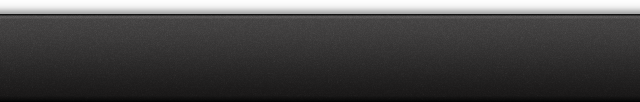
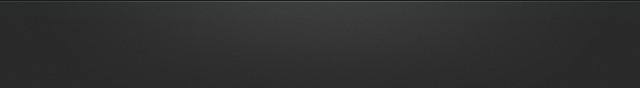
ui changes to root view

Changed region(s): [[0.0, 0.0, 1.0, 0.1364], [0.0, 0.1591, 1.0, 0.3409], [0.0, 0.9318, 1.0, 1.0]]

diff --git a/MealTime/RootViewController.m b/MealTime/RootViewController.m
@@ -63,7 +63,7 @@
   RELEASE_SAFELY(_currentAddress);
   RELEASE_SAFELY(_headerView);
   RELEASE_SAFELY(_toolbar);
-  RELEASE_SAFELY(_headerLabel);
+  RELEASE_SAFELY(_statusLabel);
   RELEASE_SAFELY(_whatField);
   RELEASE_SAFELY(_whereField);
   RELEASE_SAFELY(_whatTermController);
@@ -83,7 +83,7 @@
   
   RELEASE_SAFELY(_headerView);
   RELEASE_SAFELY(_toolbar);
-  RELEASE_SAFELY(_headerLabel);
+  RELEASE_SAFELY(_statusLabel);
   RELEASE_SAFELY(_whatField);
   RELEASE_SAFELY(_whereField);
   RELEASE_SAFELY(_whatTermController);
@@ -178,7 +178,7 @@
   [self setupHeader];
   
   // Setup Toolbar
-//  [self setupToolbar];
+  [self setupToolbar];
   
   // Search Term Controller
   [self setupSearchTermController];
@@ -188,14 +188,14 @@
 }
 
 - (void)setupHeader {
-  _headerView = [[UIView alloc] initWithFrame:CGRectMake(0, 0, self.view.width, 60.0)];
-  UIImageView *bg = [[[UIImageView alloc] initWithImage:[[UIImage imageNamed:@"bg_searchbar.png"] stretchableImageWithLeftCapWidth:0 topCapHeight:0]] autorelease];
+  _headerView = [[UIView alloc] initWithFrame:CGRectMake(0, 0, self.view.width, 44.0)];
+  UIImageView *bg = [[[UIImageView alloc] initWithImage:[[UIImage imageNamed:@"bg_navbar.png"] stretchableImageWithLeftCapWidth:0 topCapHeight:1]] autorelease];
   bg.autoresizingMask = ~UIViewAutoresizingNone;
   bg.frame = _headerView.bounds;
   [_headerView addSubview:bg];
   
   // Search Bar
-  CGFloat searchWidth = _headerView.width - 20 - 50;
+  CGFloat searchWidth = _headerView.width - 20;
   
   _whatField = [[UITextField alloc] initWithFrame:CGRectMake(10, 7, searchWidth, 30)];
   _whatField.contentVerticalAlignment = UIControlContentVerticalAlignmentCenter;
@@ -205,6 +205,13 @@
   _whatField.returnKeyType = UIReturnKeySearch;
   _whatField.leftViewMode = UITextFieldViewModeAlways;
   _whatField.leftView = [[[UIImageView alloc] initWithImage:[UIImage imageNamed:@"icon_searchfield.png"]] autorelease];
+  _whatField.rightViewMode = UITextFieldViewModeUnlessEditing;
+  
+  UIButton *starButton = [UIButton buttonWithType:UIButtonTypeCustom];
+  [starButton setImage:[UIImage imageNamed:@"icon_star_silver.png"] forState:UIControlStateNormal];
+  starButton.frame = CGRectMake(0, 0, 15, 15);
+  
+  _whatField.rightView = starButton;
   _whatField.borderStyle = UITextBorderStyleRoundedRect;
   _whatField.placeholder = @"What? (e.g. Pizza, Subway)";
   [_whatField addTarget:self action:@selector(searchTermChanged:) forControlEvents:UIControlEventEditingChanged];
@@ -218,47 +225,21 @@
   _whereField.leftViewMode = UITextFieldViewModeAlways;
   _whereField.leftView = [[[UIImageView alloc] initWithImage:[UIImage imageNamed:@"icon_place.png"]] autorelease];
   
-  UILabel *rightView = [[[UILabel alloc] initWithFrame:CGRectMake(0, 0, 40, 15)] autorelease];
-  rightView.font = [PSStyleSheet fontForStyle:@"whereRightView"];
-  rightView.textColor = [PSStyleSheet textColorForStyle:@"whereRightView"];
-  rightView.shadowColor = [PSStyleSheet shadowColorForStyle:@"whereRightView"];
-  rightView.shadowOffset = [PSStyleSheet shadowOffsetForStyle:@"whereRightView"];
-  rightView.text = [NSString stringWithFormat:@"%.1f mi", _distance];
-  rightView.textAlignment = UITextAlignmentRight;
+  UIButton *distanceButton = [UIButton buttonWithType:UIButtonTypeCustom];
+  distanceButton.frame = CGRectMake(0, 0, 40, 15);
+  [distanceButton setTitle:[NSString stringWithFormat:@"%.1f mi", _distance] forState:UIControlStateNormal];
+  [distanceButton setContentHorizontalAlignment:UIControlContentHorizontalAlignmentRight];
+  [distanceButton.titleLabel setFont:[PSStyleSheet fontForStyle:@"whereRightView"]];
+  [distanceButton setTitleColor:[PSStyleSheet textColorForStyle:@"whereRightView"] forState:UIControlStateNormal];
+  [distanceButton.titleLabel setShadowColor:[PSStyleSheet shadowColorForStyle:@"whereRightView"]];
+  [distanceButton.titleLabel setShadowOffset:[PSStyleSheet shadowOffsetForStyle:@"whereRightView"]];
+  [distanceButton addTarget:self action:@selector(distance) forControlEvents:UIControlEventTouchUpInside];
+  
   _whereField.rightViewMode = UITextFieldViewModeUnlessEditing;
-  _whereField.rightView = rightView;
+  _whereField.rightView = distanceButton;
   _whereField.borderStyle = UITextBorderStyleRoundedRect;
   _whereField.placeholder = @"Where? (Current Location)";
   [_whereField addTarget:self action:@selector(searchTermChanged:) forControlEvents:UIControlEventEditingChanged];
-  
-  // Header Label
-  _headerLabel = [[UILabel alloc] initWithFrame:CGRectMake(10, 40, _headerView.width - 20, 16)];
-  _headerLabel.backgroundColor = [UIColor clearColor];
-  _headerLabel.textAlignment = UITextAlignmentCenter;
-  _headerLabel.font = [PSStyleSheet fontForStyle:@"headerLabel"];
-  _headerLabel.textColor = [PSStyleSheet textColorForStyle:@"headerLabel"];
-  _headerLabel.shadowColor = [PSStyleSheet shadowColorForStyle:@"headerLabel"];
-  _headerLabel.shadowOffset = [PSStyleSheet shadowOffsetForStyle:@"headerLabel"];
-  _headerLabel.text = @"Searching for places...";
-  
-  // Buttons
-  _headerTopButton = [UIButton buttonWithType:UIButtonTypeCustom];
-  _headerTopButton.frame = CGRectMake(_headerView.width - 50, 7, 40, 30);
-  [_headerTopButton setImage:[UIImage imageNamed:@"icon_star_gold.png"] forState:UIControlStateNormal];
-  [_headerTopButton setBackgroundImage:[[UIImage imageNamed:@"navbar_normal_button.png"] stretchableImageWithLeftCapWidth:4 topCapHeight:0] forState:UIControlStateNormal];
-  [_headerTopButton setBackgroundImage:[[UIImage imageNamed:@"navbar_normal_highlighted_button.png"] stretchableImageWithLeftCapWidth:4 topCapHeight:0] forState:UIControlStateHighlighted];
-  [_headerTopButton addTarget:self action:@selector(saved) forControlEvents:UIControlEventTouchUpInside];
-  
-  _headerDistanceButton = [UIButton buttonWithType:UIButtonTypeCustom];
-  _headerDistanceButton.frame = CGRectMake(_headerView.width - 50, 7, 40, 30);
-  [_headerDistanceButton setImage:[UIImage imageNamed:@"icon_distance.png"] forState:UIControlStateNormal];
-  [_headerDistanceButton setBackgroundImage:[[UIImage imageNamed:@"navbar_normal_button.png"] stretchableImageWithLeftCapWidth:4 topCapHeight:0] forState:UIControlStateNormal];
-  [_headerDistanceButton setBackgroundImage:[[UIImage imageNamed:@"navbar_normal_highlighted_button.png"] stretchableImageWithLeftCapWidth:4 topCapHeight:0] forState:UIControlStateHighlighted];
-  [_headerDistanceButton addTarget:self action:@selector(distance) forControlEvents:UIControlEventTouchUpInside];
-  
-  [_headerView addSubview:_headerLabel];
-  [_headerView addSubview:_headerDistanceButton];
-  [_headerView addSubview:_headerTopButton];
   
   [_headerView addSubview:_whereField];
   [_headerView addSubview:_whatField];
@@ -266,23 +247,34 @@
   [self setupHeaderWithView:_headerView];
 }
 
-- (void)setupToolbar {
+- (void)setupToolbar {  
   _toolbar = [[UIToolbar alloc] initWithFrame:CGRectMake(0, 0, self.view.width, 44.0)];
+  
+  // Toolbar Items
   NSMutableArray *toolbarItems = [NSMutableArray arrayWithCapacity:1];
   
-  [toolbarItems addObject:[UIBarButtonItem barButtonWithTitle:@"Saved" withTarget:self action:@selector(saved) width:60 height:30 buttonType:BarButtonTypeSilver]];
-  [toolbarItems addObject:[[[UIBarButtonItem alloc] initWithBarButtonSystemItem:UIBarButtonSystemItemFlexibleSpace target:nil action:nil] autorelease]];
-  
-  UIView *titleView = [[[UIView alloc] initWithFrame:CGRectMake(0, 0, _toolbar.width - 60 - 60 - 40, _toolbar.height)] autorelease];
-  titleView.autoresizingMask = UIViewAutoresizingFlexibleHeight | UIViewAutoresizingFlexibleWidth;
-
-  UIBarButtonItem *currentLocationItem = [[[UIBarButtonItem alloc] initWithCustomView:titleView] autorelease];
-  [toolbarItems addObject:currentLocationItem];
-  
-  _filterButton = [UIBarButtonItem barButtonWithTitle:[NSString stringWithFormat:@"%.1f mi", _distance] withTarget:self action:@selector(distance) width:60 height:30 buttonType:BarButtonTypeSilver];
+  [toolbarItems addObject:[[[UIBarButtonItem alloc] initWithImage:[UIImage imageNamed:@"icon_compass.png"] style:UIBarButtonItemStylePlain target:nil action:nil] autorelease]];
   
   [toolbarItems addObject:[[[UIBarButtonItem alloc] initWithBarButtonSystemItem:UIBarButtonSystemItemFlexibleSpace target:nil action:nil] autorelease]];
-  [toolbarItems addObject:_filterButton];
+  
+  // Status Label
+  _statusLabel = [[UILabel alloc] initWithFrame:CGRectMake(0, 0, _toolbar.width - 80, _toolbar.height)];
+  _statusLabel.numberOfLines = 2;
+  _statusLabel.backgroundColor = [UIColor clearColor];
+  _statusLabel.textAlignment = UITextAlignmentCenter;
+  _statusLabel.font = [PSStyleSheet fontForStyle:@"statusLabel"];
+  _statusLabel.textColor = [PSStyleSheet textColorForStyle:@"statusLabel"];
+  _statusLabel.shadowColor = [PSStyleSheet shadowColorForStyle:@"statusLabel"];
+  _statusLabel.shadowOffset = [PSStyleSheet shadowOffsetForStyle:@"statusLabel"];
+  _statusLabel.text = @"Searching for places...";
+  
+  UIBarButtonItem *statusItem = [[[UIBarButtonItem alloc] initWithCustomView:_statusLabel] autorelease];
+  [toolbarItems addObject:statusItem];
+  
+  
+  [toolbarItems addObject:[[[UIBarButtonItem alloc] initWithBarButtonSystemItem:UIBarButtonSystemItemFlexibleSpace target:nil action:nil] autorelease]];
+  
+  [toolbarItems addObject:[[[UIBarButtonItem alloc] initWithImage:[UIImage imageNamed:@"icon_info.png"] style:UIBarButtonItemStylePlain target:nil action:nil] autorelease]];
   
   [_toolbar setItems:toolbarItems];
   [self setupFooterWithView:_toolbar];
@@ -292,7 +284,7 @@
   _whatTermController = [[SearchTermController alloc] initWithContainer:@"what"];
   _whatTermController.delegate = self;
 //  _whatTermController.view.frame = self.view.bounds;
-  _whatTermController.view.frame = CGRectMake(0, 60, self.view.width, self.view.height - 60);
+  _whatTermController.view.frame = CGRectMake(0, 44, self.view.width, self.view.height - 44);
   _whatTermController.view.alpha = 0.0;
   [self.view insertSubview:_whatTermController.view aboveSubview:_headerView];
 //  [self.view addSubview:_whatTermController.view];
@@ -300,7 +292,7 @@
   _whereTermController = [[SearchTermController alloc] initWithContainer:@"where"];
   _whereTermController.delegate = self;
 //  _whereTermController.view.frame = self.view.bounds;
-  _whereTermController.view.frame = CGRectMake(0, 60, self.view.width, self.view.height - 60)
+  _whereTermController.view.frame = CGRectMake(0, 44, self.view.width, self.view.height - 44)
   ;
   _whereTermController.view.alpha = 0.0;
   [self.view insertSubview:_whereTermController.view aboveSubview:_headerView];
@@ -328,9 +320,9 @@
   _hasMore = NO;
   _numResults = [res count];
   if (_numResults > 0) {
-    _headerLabel.text = [NSString stringWithFormat:@"Found %d saved places", _numResults];
+    _statusLabel.text = [NSString stringWithFormat:@"Found %d saved places", _numResults];
   } else {
-    _headerLabel.text = [NSString stringWithFormat:@"You have no saved places"];
+    _statusLabel.text = [NSString stringWithFormat:@"You have no saved places"];
   }
   
   [self dataSourceShouldLoadObjects:savedPlaces];
@@ -377,7 +369,7 @@
   }
   
   // Update Distance Label
-  [(UILabel *)[_whereField rightView] setText:[NSString stringWithFormat:@"%.1f mi", _distance]];
+  [(UIButton *)[_whereField rightView] setTitle:[NSString stringWithFormat:@"%.1f mi", _distance] forState:UIControlStateNormal];
 }
 
 #pragma mark - Sort
@@ -393,7 +385,7 @@
   BOOL isReload = (_pagingStart == 0) ? YES : NO;
   if (isReload) {
     NSString *where = [_whereField.text length] > 0 ? _whereField.text : @"Current Location";
-    _headerLabel.text = [NSString stringWithFormat:@"Searching for places within %.1f mi of %@", _distance, where];
+    _statusLabel.text = [NSString stringWithFormat:@"Searching for Places within %.1f miles\n%@", _distance, where];
   }
   
 #if USE_FIXTURES
@@ -557,9 +549,9 @@
   _numResults = [response objectForKey:@"numResults"] ? [[response objectForKey:@"numResults"] integerValue] : 0;
   NSString *where = [_whereField.text length] > 0 ? _whereField.text : @"Current Location";
   if (_numResults > 0) {
-    _headerLabel.text = [NSString stringWithFormat:@"Found %d places within %.1f mi of %@", _numResults, _distance, where];
+    _statusLabel.text = [NSString stringWithFormat:@"Found %d Places within %.1f miles\n%@", _numResults, _distance, where];
   } else {
-    _headerLabel.text = [NSString stringWithFormat:@"Found %d places within %.1f mi of %@", _numResults, _distance, where];
+    _statusLabel.text = [NSString stringWithFormat:@"Found %d Places within %.1f miles\n%@", _numResults, _distance, where];
   }
   
   NSArray *places = [response objectForKey:@"places"];
@@ -730,20 +722,14 @@
 - (void)dismissSearch {
   _isSearchActive = NO;
   
-  // Update Header
-  [_headerTopButton setImage:[UIImage imageNamed:@"icon_star_gold.png"] forState:UIControlStateNormal];
-  [_headerTopButton removeTarget:self action:@selector(dismissSearch) forControlEvents:UIControlEventTouchUpInside];
-  [_headerTopButton addTarget:self action:@selector(saved) forControlEvents:UIControlEventTouchUpInside];
-  
   // Animate Search Fields
   [UIView animateWithDuration:0.4
                    animations:^{
-                     _headerLabel.alpha = 1.0;
-                     _whatTermController.view.frame = CGRectMake(0, 60, self.view.width, self.view.height - 60);
-                     _whereTermController.view.frame = CGRectMake(0, 60, self.view.width, self.view.height - 60);
-                     _headerView.height = 60;
+                     _statusLabel.alpha = 1.0;
+                     _whatTermController.view.frame = CGRectMake(0, 44, self.view.width, self.view.height - 44);
+                     _whereTermController.view.frame = CGRectMake(0, 44, self.view.width, self.view.height - 44);
+                     _headerView.height = 44;
                      _whereField.top = 7;
-                     _headerDistanceButton.top = 7;
                    }
                    completion:^(BOOL finished) {
                    }];
@@ -778,11 +764,6 @@
   if (!_isSearchActive) {
     _isSearchActive = YES;
     
-    // Update Header
-    [_headerTopButton setImage:[UIImage imageNamed:@"icon_cancel.png"] forState:UIControlStateNormal];
-    [_headerTopButton removeTarget:self action:@selector(saved) forControlEvents:UIControlEventTouchUpInside];
-    [_headerTopButton addTarget:self action:@selector(dismissSearch) forControlEvents:UIControlEventTouchUpInside];
-    
     if ([textField isEqual:_whatField]) {
       [_whatTermController searchWithTerm:textField.text];
     } else {
@@ -792,12 +773,11 @@
     // Animate Search Fields
     [UIView animateWithDuration:0.4
                      animations:^{
-                       _headerLabel.alpha = 0.0;
+                       _statusLabel.alpha = 0.0;
                        _whatTermController.view.frame = CGRectMake(0, 80, self.view.width, self.view.height - 80);
                        _whereTermController.view.frame = CGRectMake(0, 80, self.view.width, self.view.height - 80);
                        _headerView.height = 80;
                        _whereField.top = 42;
-                       _headerDistanceButton.top = 42;
                      }
                      completion:^(BOOL finished) {
                      }];

diff --git a/MealTime/RootViewController.h b/MealTime/RootViewController.h
@@ -18,9 +18,7 @@
   UIToolbar *_toolbar;
   UITextField *_whatField;
   UITextField *_whereField;
-  UILabel *_headerLabel;
-  UIButton *_headerTopButton;
-  UIButton *_headerDistanceButton;
+  UILabel *_statusLabel;
 
   NSArray *_currentAddress;
   
@@ -41,9 +39,6 @@
   NSInteger _numResults;
   
   BOOL _isSearchActive;
-  
-  // Autoreleased
-  UIBarButtonItem *_filterButton;
 }
 
 @property (nonatomic, retain) NSString *whatQuery;

diff --git a/MealTime/UINavigationBar+Custom.m b/MealTime/UINavigationBar+Custom.m
@@ -12,8 +12,8 @@
 @implementation UINavigationBar (Custom)
 
 - (void)drawRect:(CGRect)rect {
-  UIImage *image = [[UIImage imageNamed:@"bg_navigationbar.png"] retain];
-  [image drawInRect:CGRectMake(0, 0, rect.size.width, rect.size.height + 7)];
+  UIImage *image = [[UIImage imageNamed:@"bg_navbar.png"] retain];
+  [image drawInRect:CGRectMake(0, 0, rect.size.width, rect.size.height)];
   [image release];
 }
 

diff --git a/MealTime/UIToolbar+Custom.m b/MealTime/UIToolbar+Custom.m
@@ -13,7 +13,7 @@
 
 - (void)drawRect:(CGRect)rect {
   UIImage *image = [[UIImage imageNamed:@"bg_toolbar.png"] retain];
-  [image drawInRect:CGRectMake(0, -7, rect.size.width, rect.size.height + 7)];
+  [image drawInRect:CGRectMake(0, 0, rect.size.width, rect.size.height)];
   [image release];
 }
 
